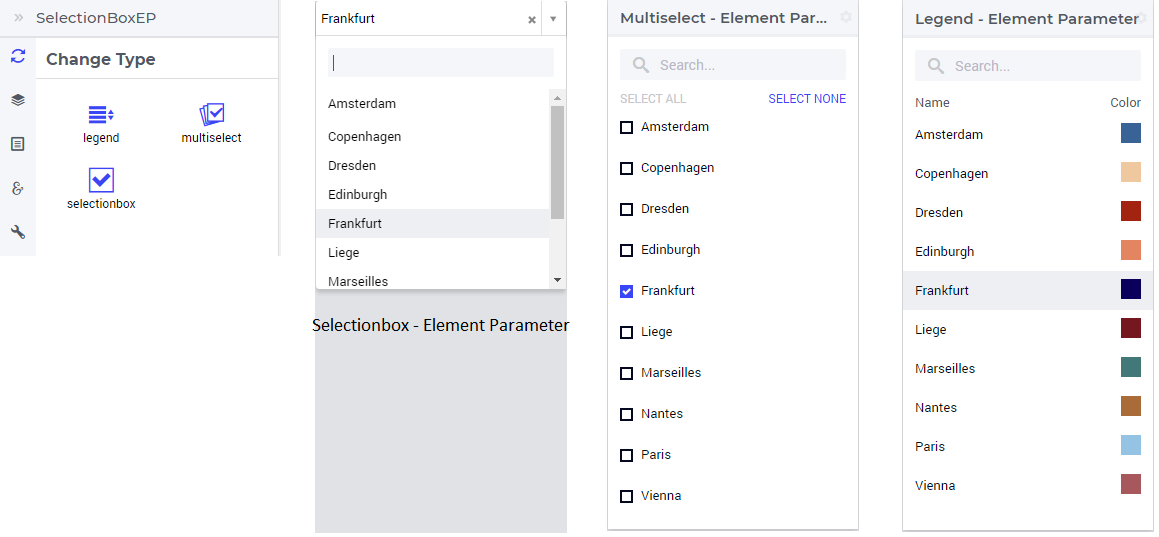
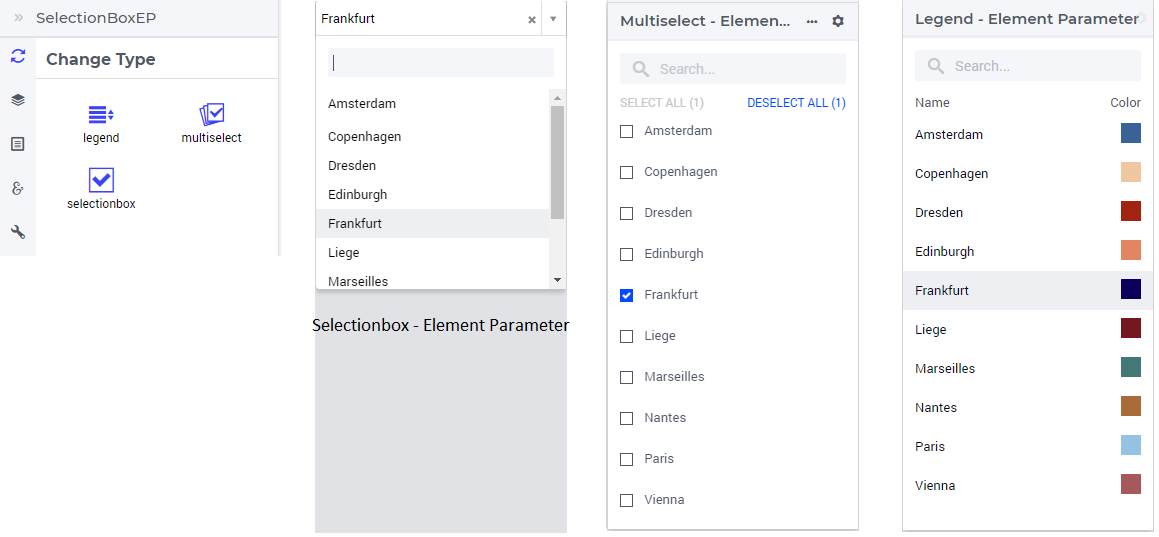
webui: Adding in details about MultiSelect widget enhancements

diff --git a/webui/selection-widgets.rst b/webui/selection-widgets.rst
@@ -31,11 +31,16 @@ for the available model data using the corresponding functionality at the bottom
 In our example, the binary parameter IsInSubsetCenters(c) is declared with the index domain the set Centers. In this case, it is appropriate to use a multiselect
 type of widget which allows to select several elements from the underlying set:
 
-.. image:: images/Selection-MultiselectBP.png
+.. image:: images/Selection-MultiSelect.png
     :align: center
 
 Note that, in this case it is still possible to switch to other representation type, e.g.. to selectionbox, but then the selection is restricted to just one element
 from the underlying set. 
+
+.. note::
+
+    In the AIMMS `4.97.1 <https://manual.aimms.com/release-notes.html#aimms-4-97>`_ release, we enhanced the functionality of the Select and Deselect links in the MultiSelect widget. With this improvement, when you apply a filter to the widget, the "Select" and "Deselect" links will now accurately select or deselect all the filtered entries. Furthermore, for added clarity, we've included a count of available entries next to the "Select" and "Deselect" links.
+
 
 Identifier Settings
 --------------------------
